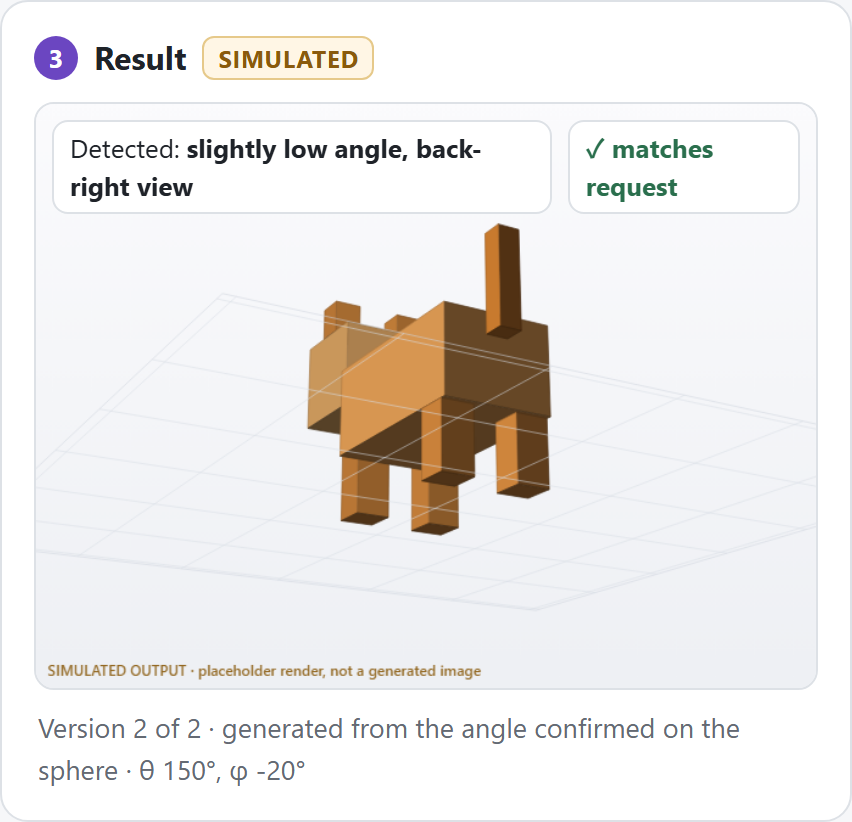
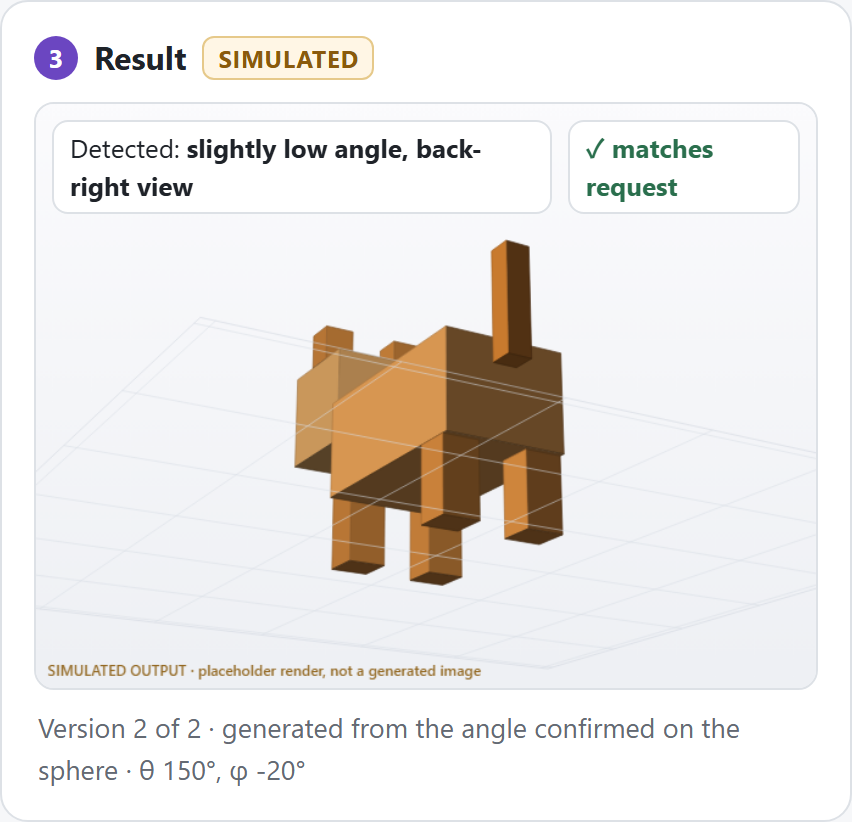
Result image: cat a little larger and lower, clear of the labels

Changed region(s): [[0.3357, 0.2737, 0.6714, 0.7299]]

diff --git a/prototype/app.js b/prototype/app.js
@@ -149,12 +149,12 @@
   function renderScene(canvas, theta, phi, opts) {
     opts = opts || {};
     var ctx = canvas.getContext('2d'), w = canvas.width, h = canvas.height;
-    var B = opts.frame || (opts.preview ? cameraFrame() : basis(theta, phi)), base = Math.min(w, h) / (opts.preview ? 4.5 / (previewZoom * userZoom) : opts.short ? 6.2 : 5.1);
+    var B = opts.frame || (opts.preview ? cameraFrame() : basis(theta, phi)), base = Math.min(w, h) / (opts.preview ? 4.5 / (previewZoom * userZoom) : opts.short ? 6.2 : 4.6);
     var cam = [CENTRE[0] + B.dir[0] * CAM_D, CENTRE[1] + B.dir[1] * CAM_D, CENTRE[2] + B.dir[2] * CAM_D];
     function proj(P) {
       var q = [P[0] - CENTRE[0], P[1] - CENTRE[1], P[2] - CENTRE[2]];
       var d = dot(q, B.dir), s = base * CAM_D / (CAM_D - d);
-      return { x: w / 2 + dot(q, B.right) * s, y: h / 2 - dot(q, B.up) * s, d: d };
+      return { x: w / 2 + dot(q, B.right) * s, y: h * (opts.preview || opts.short ? 0.5 : 0.56) - dot(q, B.up) * s, d: d }; // result image: subject a little lower, clear of the labels
     }
     function poly(points, fill, stroke) {
       ctx.beginPath();
